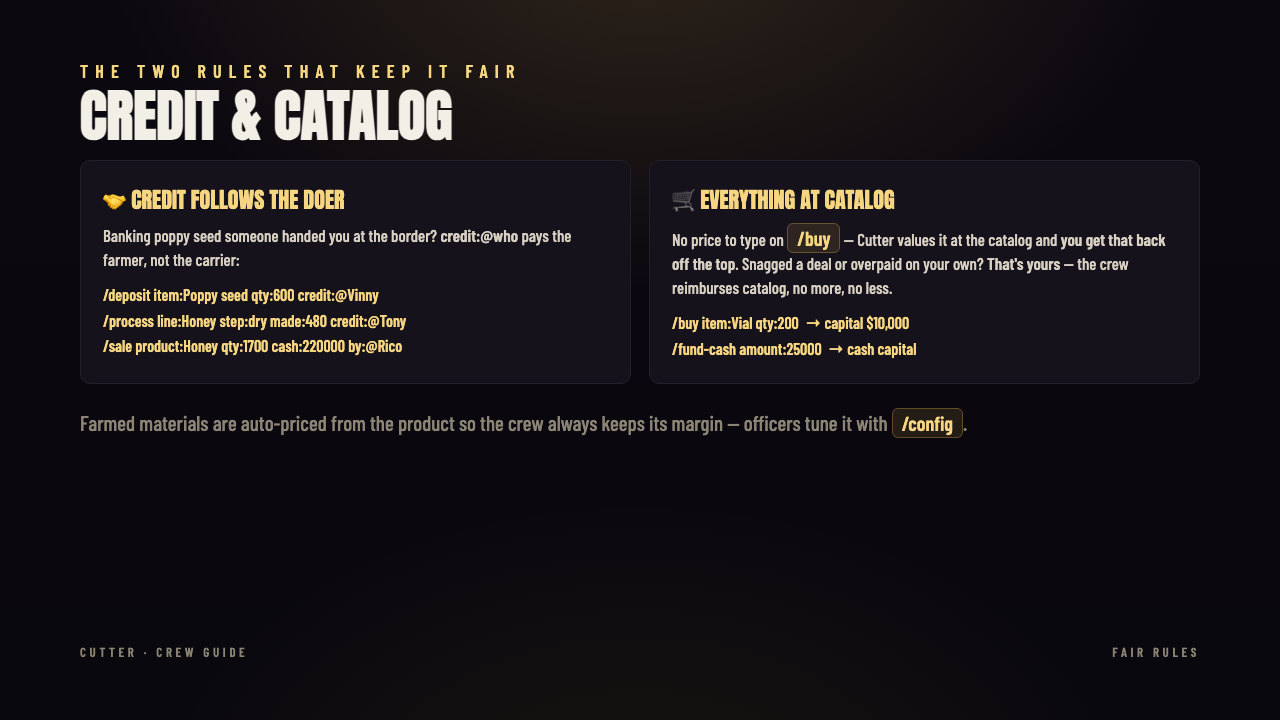
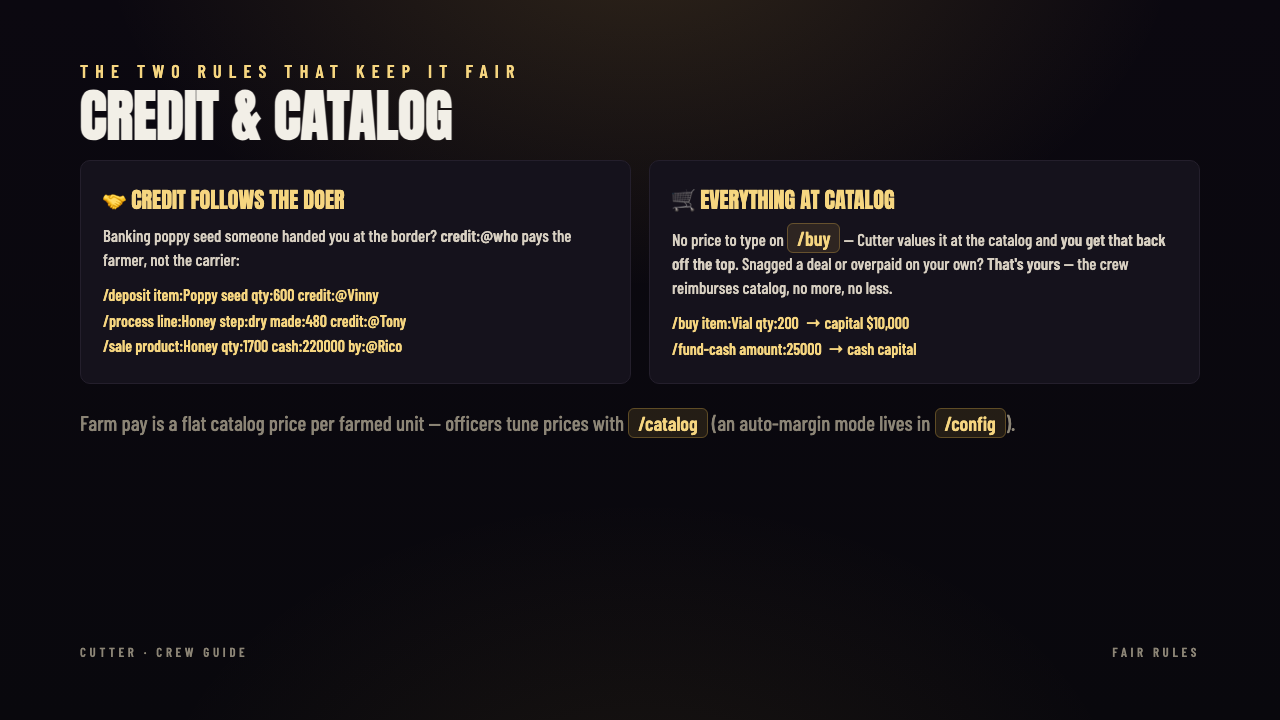
feat: flat $10 farmed resources; farm auto-margin off by default
The margin back-solver was inflating farm pay to absurd levels as real
supply prices came in ($684/coca leaf). Farmed items now seed at a flat
$10 and targetMargin defaults to 0 (config dial + engine machinery kept
— /config can re-enable auto-pricing). Both live guild configs flipped
to margin 0 and re-seeded; deck slide updated.

Changed region(s): [[0.0938, 0.55, 0.8125, 0.6111]]

diff --git a/packages/bot/src/store.ts b/packages/bot/src/store.ts
@@ -14,7 +14,7 @@ import * as db from "./db";
 export const DEFAULT_CONFIG: Config = {
   laborRate: 25,
   commissionPct: 0.08,
-  targetMargin: 0.4,
+  targetMargin: 0, // farm auto-pricing off — farmed resources at flat catalog value
   rankMultipliers: { 1: 5, 2: 4, 3: 3, 4: 2, 5: 1 },
 };
 
@@ -153,8 +153,8 @@ export async function seedDefaults(gid: string): Promise<void> {
 
   const items: CatalogItem[] = [
     // honey
-    { id: "poppy_seed", name: "Poppy seed", kind: "base", value: 20, source: "farmed", lineId: "honey" },
-    { id: "acetone", name: "Acetone", kind: "base", value: 30, source: "farmed", lineId: "honey" },
+    { id: "poppy_seed", name: "Poppy seed", kind: "base", value: 10, source: "farmed", lineId: "honey" },
+    { id: "acetone", name: "Acetone", kind: "base", value: 10, source: "farmed", lineId: "honey" },
     { id: "baking_soda", name: "Baking soda", kind: "base", value: 5, source: "bought", lineId: "honey" },
     { id: "vial", name: "Vial", kind: "base", value: 15, source: "bought", lineId: "honey" },
     { id: "syringe", name: "Syringe", kind: "base", value: 15, source: "bought", lineId: "honey" },
@@ -164,8 +164,8 @@ export async function seedDefaults(gid: string): Promise<void> {
     { id: "vial_heroin", name: "Vial heroin", kind: "intermediate", value: 0, lineId: "honey" },
     { id: "honey", name: "Honey", kind: "final", value: 0, lineId: "honey" },
     // coke (cut also consumes honey's baking soda + acetone cross-line)
-    { id: "coca_leaves", name: "Coca leaves", kind: "base", value: 20, source: "farmed", lineId: "coke" },
-    { id: "illegal_gas", name: "Illegal Gas", kind: "base", value: 50, source: "farmed", lineId: "coke" },
+    { id: "coca_leaves", name: "Coca leaves", kind: "base", value: 10, source: "farmed", lineId: "coke" },
+    { id: "illegal_gas", name: "Illegal Gas", kind: "base", value: 10, source: "farmed", lineId: "coke" },
     { id: "weed_baggie", name: "Weed baggie", kind: "base", value: 20, source: "bought", lineId: "coke" },
     { id: "raw_cocaine", name: "Raw cocaine", kind: "intermediate", value: 0, lineId: "coke" },
     { id: "loose_cocaine", name: "Loose cocaine", kind: "intermediate", value: 0, lineId: "coke" },

diff --git a/packages/bot/src/handler.ts b/packages/bot/src/handler.ts
@@ -416,7 +416,7 @@ async function setupWork(i: any): Promise<MsgData | string> {
       created.length ? `Created: ${created.join(" ")}` : "",
       `Cycle **${config.cycleNumber}** is live — log work as it happens, \`/payout\` settles it.`,
       "Seeded product lines **Honey** + **Coke** (catalog · recipes)",
-      "Default dials: labor $25/unit · 8% commission · 40% farm margin · ranks 5/4/3/2/1",
+      "Default dials: labor $25/unit · 8% commission · farmed flat $10 (auto-margin off) · ranks 5/4/3/2/1",
       guideLine,
       "",
       "Next: map ranks with `/rank map`, tune with `/config`.",
@@ -1303,7 +1303,7 @@ const DIALS: Dial[] = [
     val: (c) => `${Math.round((c.targetMargin ?? 0) * 100)} %`,
     fill: (c) => Math.round(Math.min(c.targetMargin ?? 0, 1) * 8),
     apply: (c, d) => { c.targetMargin = Math.min(0.95, Math.max(0, (c.targetMargin ?? 0) + d / 100)); },
-    reset: (c) => { c.targetMargin = 0.4; },
+    reset: (c) => { c.targetMargin = 0; },
   },
   ...[1, 2, 3, 4, 5].map(
     (lvl): Dial => ({

diff --git a/tutorial/tutorial.html b/tutorial/tutorial.html
@@ -220,7 +220,7 @@
     <div class="card"><div class="h">🤝 CREDIT FOLLOWS THE DOER</div><p>Banking poppy seed someone handed you at the border? <b>credit:@who</b> pays the farmer, not the carrier:</p><div class="cmds">/deposit item:Poppy seed qty:600 credit:@Vinny<br>/process line:Honey step:dry made:480 credit:@Tony<br>/sale product:Honey qty:1700 cash:220000 by:@Rico</div></div>
     <div class="card"><div class="h">🛒 EVERYTHING AT CATALOG</div><p>No price to type on <span class="cmd">/buy</span> — Cutter values it at the catalog and <b>you get that back off the top</b>. Snagged a deal or overpaid on your own? <b>That's yours</b> — the crew reimburses catalog, no more, no less.</p><div class="cmds">/buy item:Vial qty:200 &nbsp;→ capital $10,000<br>/fund-cash amount:25000 &nbsp;→ cash capital</div></div>
   </div>
-  <p class="lead" style="margin-top:24px;font-size:21px;color:var(--muted);">Farmed materials are auto-priced from the product so the crew always keeps its margin — officers tune it with <span class="cmd">/config</span>.</p>
+  <p class="lead" style="margin-top:24px;font-size:21px;color:var(--muted);">Farm pay is a flat catalog price per farmed unit — officers tune prices with <span class="cmd">/catalog</span> (an auto-margin mode lives in <span class="cmd">/config</span>).</p>
   <div class="foot"><span>CUTTER · CREW GUIDE</span><span>FAIR RULES</span></div>
 </div></section>
 